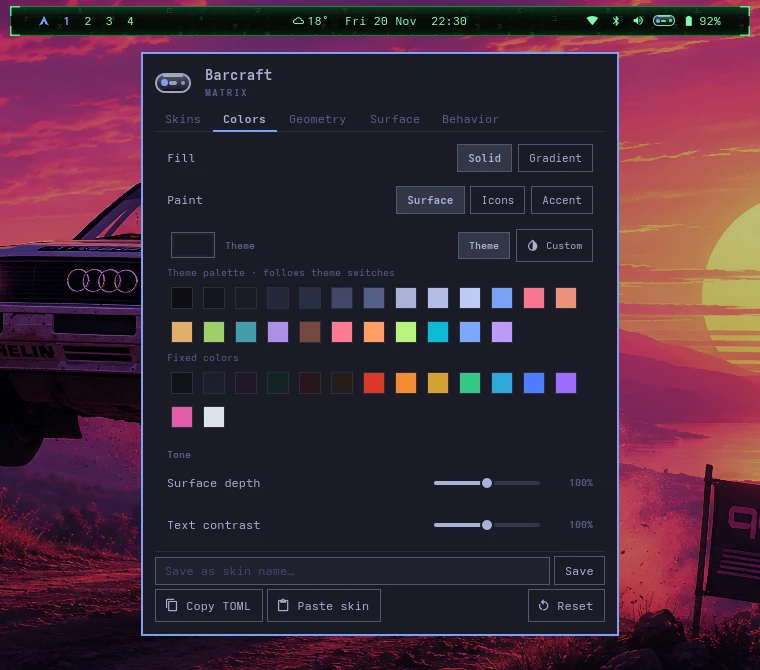
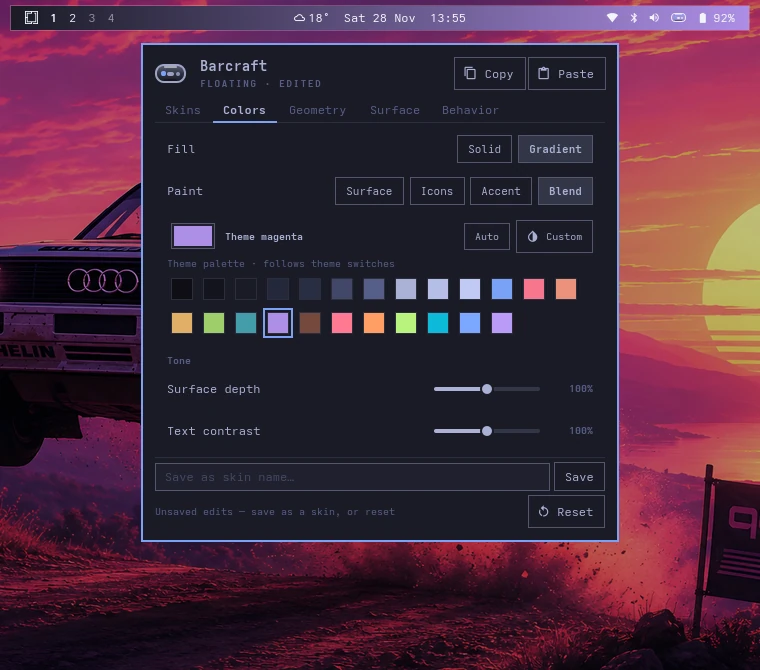
Update README and refresh 0.8 screenshots with animated WebP demo

diff --git a/README.md b/README.md
@@ -10,14 +10,17 @@
 
 Barcraft (`thepixelgardener.barcraft`) layers a zero-motion skin engine and keyboard-driven Studio onto Omarchy's own bar. Every built-in and third-party `bar-widget`, popup, drag-and-drop layout, and multi-monitor setup keeps working unchanged, while settings live in `shell.json` and `"auto"` tokens follow your Omarchy theme and Hyprland geometry.
 
-![Barcraft skins showcase](assets/skins-showcase.webp)
+![Barcraft Studio live-switching across all built-in skins](assets/barcraft-demo.webp)
 
 ## What's included
 
 - **9 built-in skins** — Classic: `Floating`, `Islands`, `Frosted`, `Capsule`, `Editorial`, `Statusline` *(compact 26px high-contrast developer bar with outlined widget chips)*. Wild Craft (still art): `Matrix`, `Runeforge`, `Amiga`.
-- **Omarchy standard switch** — jump back to pixel-identical stock `omarchy.bar` anytime while keeping the Studio and saved skins ready.
-- **Keyboard-first Studio** — hover or move the cursor (`hjkl`/arrows) to preview live, edit colors/geometry/surface/behavior, assign per-monitor skins, and copy/paste skins as TOML.
+- **Omarchy standard switch** — jump back to pixel-identical stock `omarchy.bar` anytime while keeping Studio and saved skins ready.
+- **Keyboard-first Studio** — hover or move the cursor (`hjkl`/arrows) to preview live, edit colors, geometry, surface, and behavior, and assign per-monitor skins across displays.
+- **Share the look, keep your widgets** — **Copy** and **Paste** `[bar-skin]` TOML from the Studio header with strict validation, line-level diagnostics, and one-click **Undo paste**.
 - **Theme-native & still** — live `theme.<key>` swatches follow theme switches with automatic WCAG 4.5:1 ink contrast and zero looping animations.
+
+![All 9 built-in Barcraft skins](assets/skins-showcase.webp)
 
 <details>
 <summary>Studio screenshots (Skins · Colors · Geometry · Surface · Behavior)</summary>
@@ -63,7 +66,7 @@ omarchy plugin remove thepixelgardener.barcraft
 
 Every skin is a plain `[bar-skin]` TOML block. You can make one in three ways:
 
-1. **In Barcraft Studio** — pick a starting preset, tweak colors, geometry, surface, or widgets live, then click **Save** (writes `~/.config/omarchy/bar/skins/<name>.toml`) or **Copy** at the top of Studio to share it. Post skins in the pinned **[Share your skin](https://github.com/thepixelgardener-create/barcraft/issues/4)** thread; to try one, copy it and press **Paste** in Studio. Your widgets and layout stay, and **Undo paste** goes back.
+1. **In Barcraft Studio** — pick a starting preset, tweak colors, geometry, surface, or widgets live, then **Save** from the draft bar (writes `~/.config/omarchy/bar/skins/<name>.toml`) or press **Copy** at the top of Studio to share it. Post skins in the pinned **[Share your skin](https://github.com/thepixelgardener-create/barcraft/issues/4)** thread; to try one, copy it and press **Paste** in Studio. Your widgets and layout stay, and **Undo paste** goes back.
 2. **As a standalone TOML file** — drop a `.toml` file into `~/.config/omarchy/bar/skins/`. Start from any built-in `preset` and override only what you want:
 
    ```toml
@@ -80,6 +83,7 @@ See the **[Skin Authoring Guide](docs/skins.md)** for the full `[bar-skin]` TOML
 
 ## Docs & Links
 
+- **[Share your skin](https://github.com/thepixelgardener-create/barcraft/issues/4)** — community `[bar-skin]` TOML thread
 - **[Skin Authoring Guide & TOML Reference](docs/skins.md)** — creating, sharing, theme-shipping, and contributing skins
 - **[Keybindings, IPC, Omarchy Integration & Development](docs/reference.md)** — `bindings.lua`, `omarchy-shell barcraft` commands, files written, tests, and upstream sync
 - **[Changelog](CHANGELOG.md)** — release history

diff --git a/docs/plan-0.8.md b/docs/plan-0.8.md
@@ -137,7 +137,7 @@ Written 2026-11-25. This replaces the two earlier drafts of the 0.8 plan.
 ### Remaining before tagging 0.8.0
 
 - ~~**Public share thread (#4):**~~ Done 2026-11-27: pinned issue [#4 "Share your skin"](https://github.com/thepixelgardener-create/barcraft/issues/4) with the `skin` label. `SkinEngine.shareSkinsUrl`, the README and `docs/skins.md` point to it.
-- **Refresh the README screenshots** in `assets/` (still from 0.4.0): the Skins tab no longer has **Paste skin** in its footer. Copy and Paste now sit in the Studio header.
+- ~~**Refresh the README screenshots** in `assets/` (still from 0.4.0):~~ Done 2026-11-28: refreshed all 5 Studio screenshots, the 9-skin showcase (`assets/skins-showcase.webp` & `preview.webp`), `assets/social-preview.png`, and added an animated WebP demo (`assets/barcraft-demo.webp`).
 - **Two-person swap test:** you and one other person each send the other a skin, starting from opening Studio, without help: copy, send, paste, keep or undo, then go back to your own skin or Omarchy standard. Every spot where either of you hesitates is a bug to fix before tagging `0.8.0`.
 - ~~**Release check:**~~ Passed on `dev` 2026-11-27 (Hyprland 0.57.2-9, Qt 6.12.1, omarchy-dev r8457, whose bar is unchanged since r8442): node tests, `qmltestrunner` offscreen, `omarchy plugin validate .`, `omarchy agent look plugin .`, `scripts/sync-upstream.sh --check`. Re-run after any fix from the swap test, then bump `manifest.json` to 0.8.0.
 
